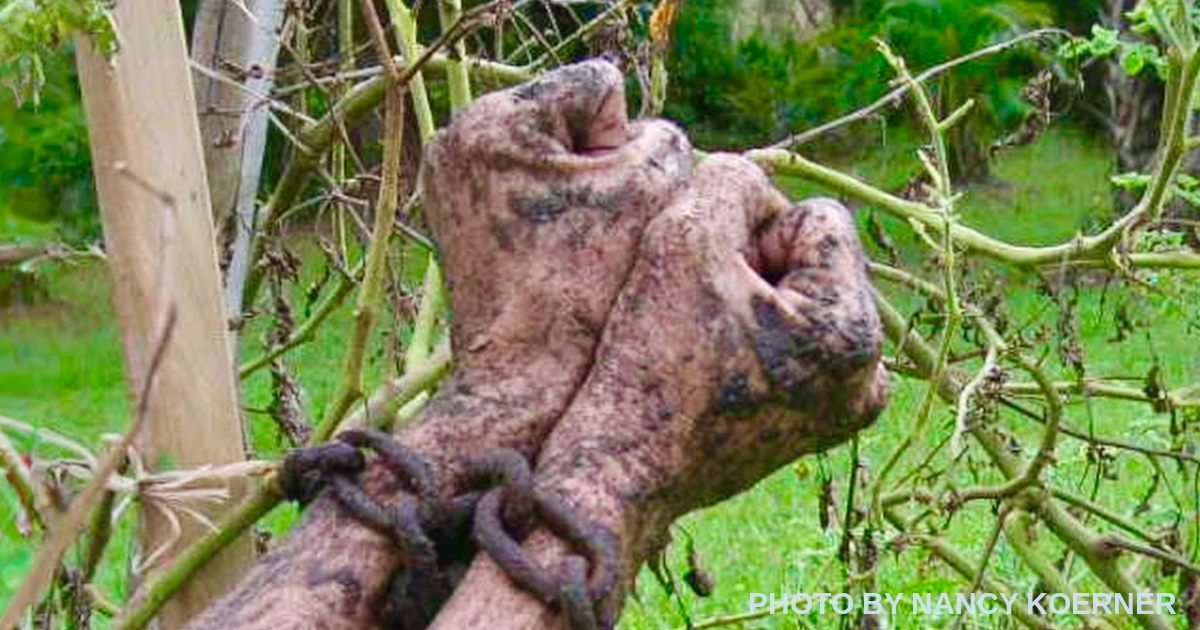
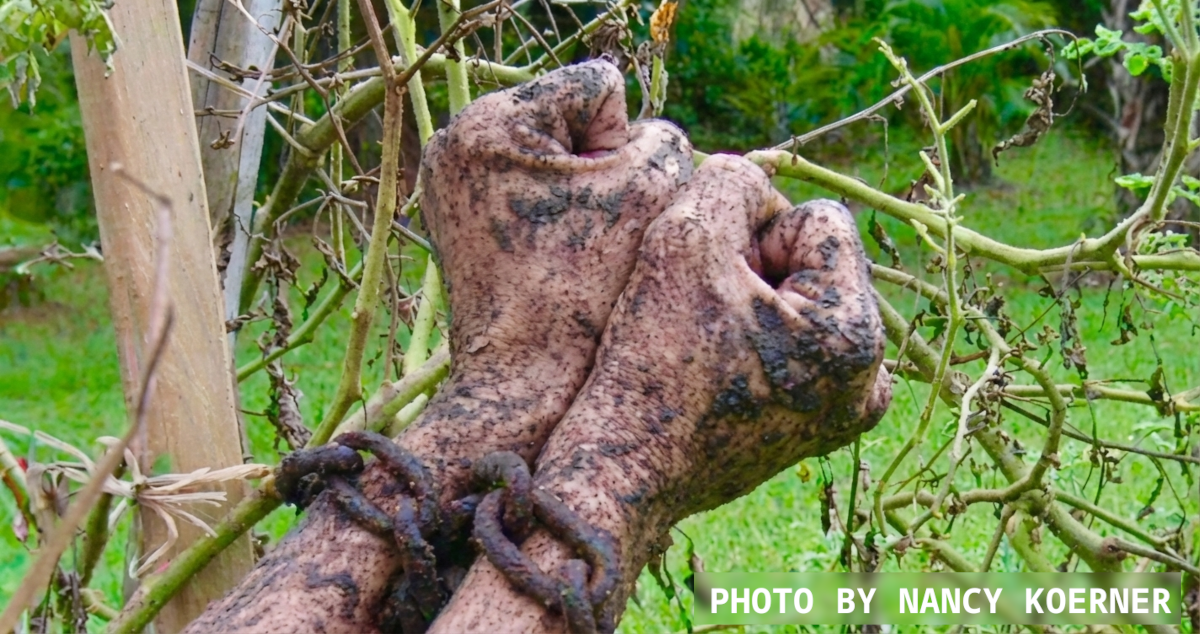
update pic

diff --git a/content/p/but-i-didnt-do-it/index.md b/content/p/but-i-didnt-do-it/index.md
@@ -1,7 +1,7 @@
 ---
 title: But, I Didn’t Do It…
 date: 2023-08-16
-thumbnail: img/false-arrest.jpg
+thumbnail: img/false-arrest.png
 categories:
 - wonderful-wednesday
 authors:
